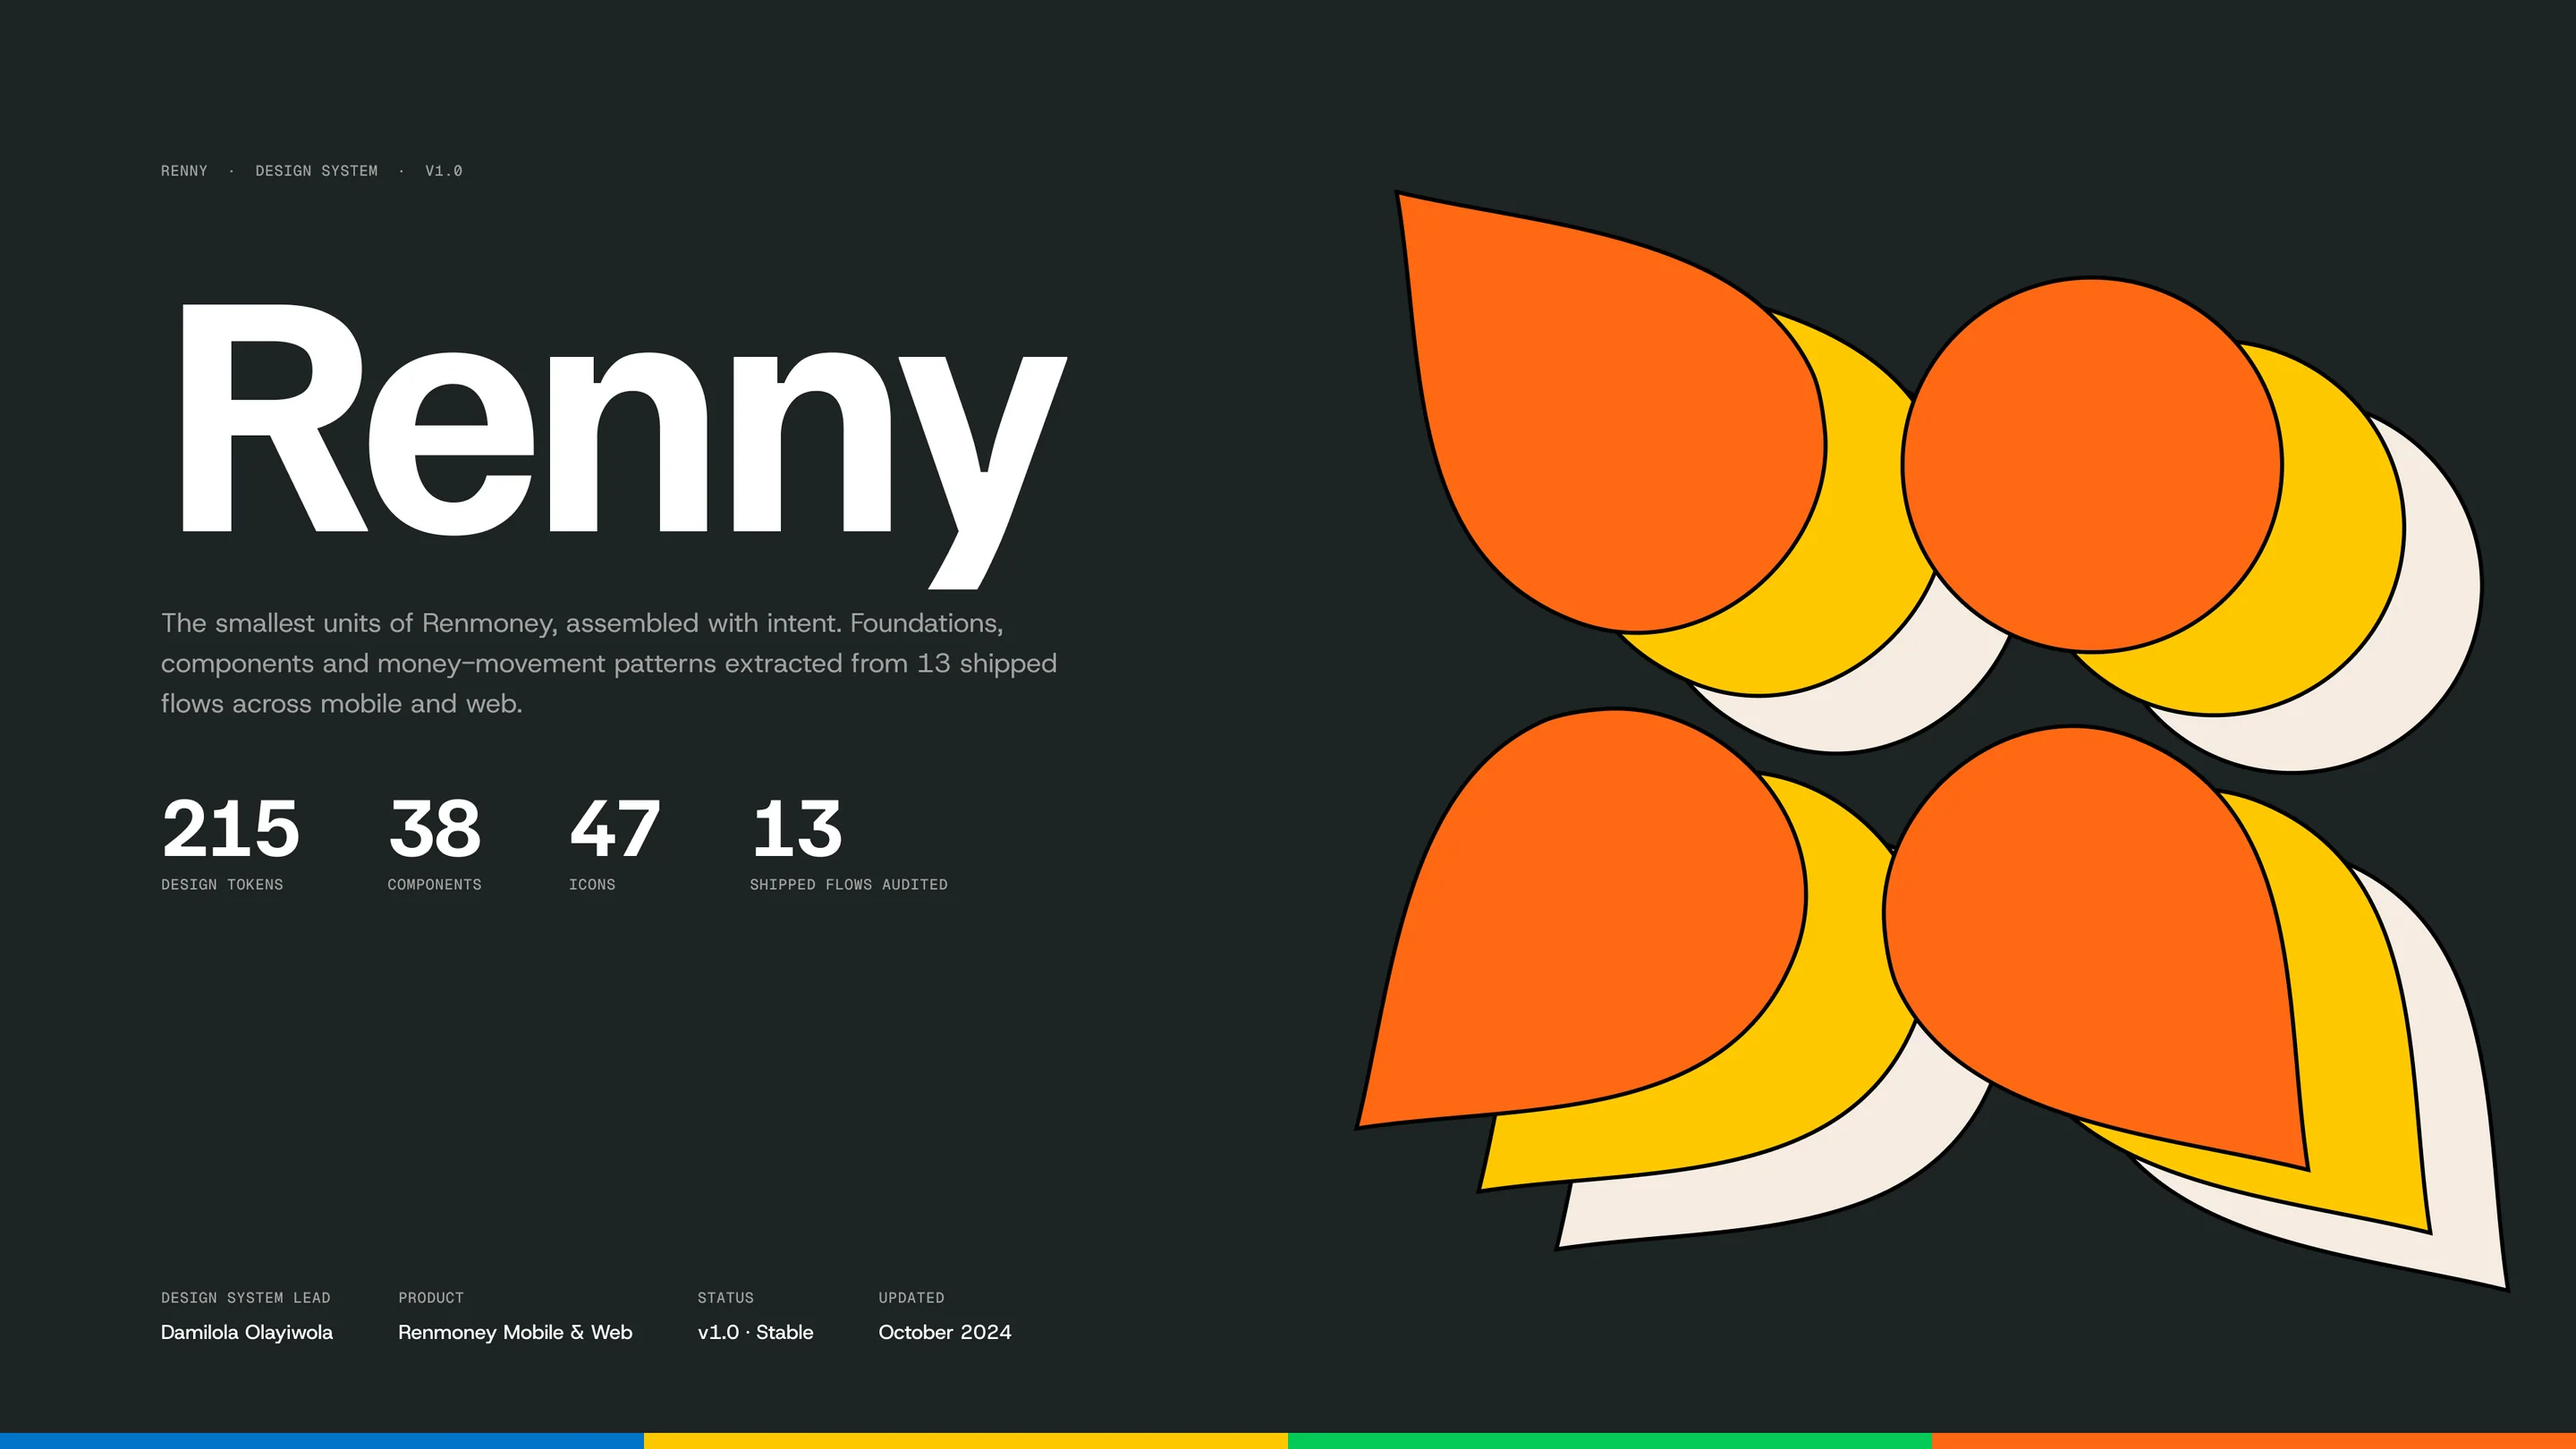
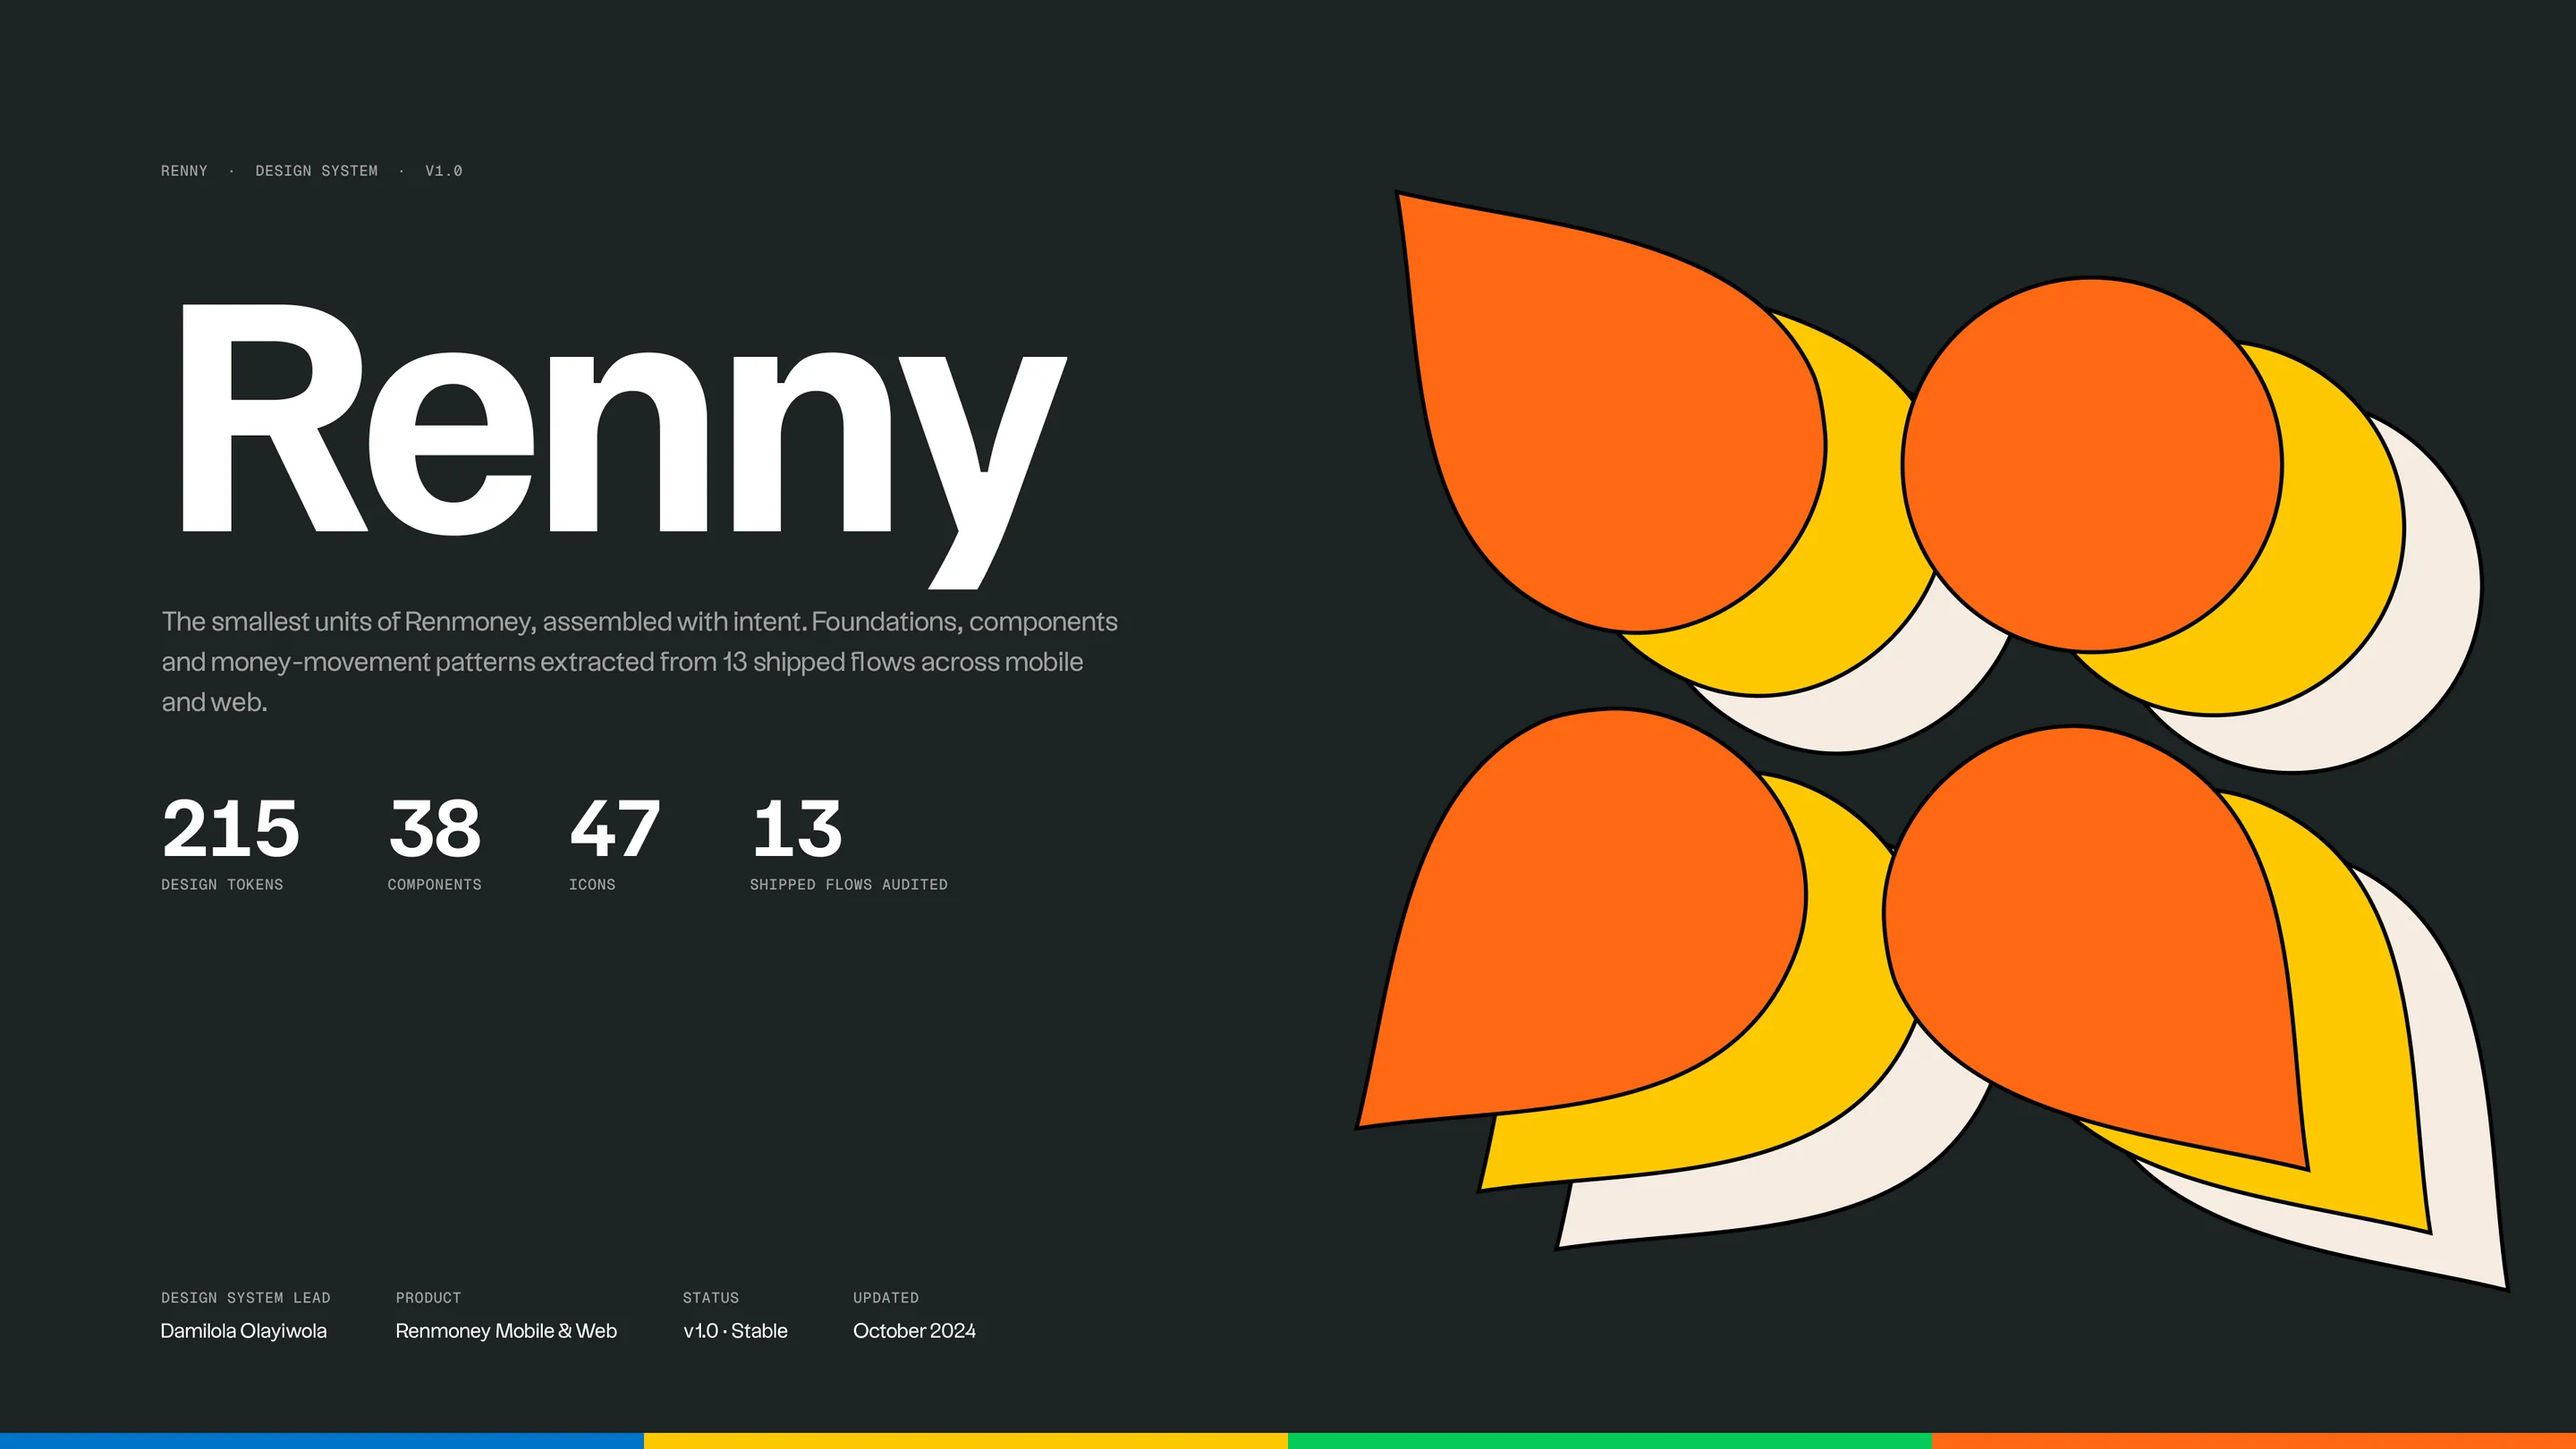
Renny: re-export case study images in the brand fonts
Claude-Session: https://claude.ai/code/session_01R4bDjhHYrUPC2NqNuzqTts

Changed region(s): [[0.0625, 0.4012, 0.4375, 0.4938], [0.1562, 0.8951, 0.4062, 0.9259], [0.0625, 0.8951, 0.125, 0.9259]]

diff --git a/index.html b/index.html
@@ -595,7 +595,7 @@ const CASES=[{"slug":"renmoney-loan-optimization","co":"Renmoney Microfinance ba
   const S = (label, head, body) => `<div class="rc"><p class="rc-l">${label}</p>${head ? `<h2 class="rc-h">${head}</h2>` : ""}${body}</div>`;
   const P = t => `<p>${t}</p>`;
   const UL = items => `<ul>${items.map(i => `<li>${i}</li>`).join("")}</ul>`;
-  const DIM = {"cover":[2880,1620],"use-hubs":[2976,2448],"buttons":[2976,1392],"radius":[2976,968],"product-colour":[2976,1110],"amount":[2976,1112],"pin":[2976,1130],"built":[2976,718],"modes":[2976,1318],"use-consequence":[2976,1856],"health":[2976,860],"before-after":[2976,1778],"use-money":[2976,2496],"audit":[2976,1312],"a11y":[2976,878],"principles":[2976,1336],"elevation":[2976,1222],"typefaces":[2976,1204]};
+  const DIM = {"cover":[2880,1620],"use-hubs":[2976,2480],"buttons":[2976,1424],"radius":[2976,952],"product-colour":[2976,1142],"amount":[2976,1048],"pin":[2976,1162],"built":[2976,750],"modes":[2976,1350],"use-consequence":[2976,1888],"health":[2976,844],"before-after":[2976,1762],"use-money":[2976,2528],"audit":[2976,1344],"a11y":[2976,910],"principles":[2976,1368],"elevation":[2976,1206],"typefaces":[2976,1236]};
   let ex = 0;
   const IMG = (k, cap, alt, use) => ({t:"img", src:`media/renny/${k}.webp`, w:DIM[k][0], h:DIM[k][1], alt: alt || cap, cap, n: use ? `Usage ${String(use).padStart(2,"0")}` : `Excerpt ${String(++ex).padStart(2,"0")}`});
   const stat = (n, l, c) => `<div class="rs"><b style="color:${c}">${n}</b><span>${l}</span></div>`;
@@ -635,7 +635,7 @@ const CASES=[{"slug":"renmoney-loan-optimization","co":"Renmoney Microfinance ba
     {t:"html", l:"Foundations", h: S("Foundations", "Colour, type, shape and elevation, rebuilt as tokens", P("The brand stayed recognisable; what changed is that every value now has a name, a scope and a reason."))},
     IMG("product-colour","Product colour system: each product owns a core and a subtle tint, applied to marks, progress fills, chart series and tags."),
     IMG("modes","One component, two modes. The same instances; only the frame’s colour mode differs, so Dark ships as a setting, not a redesign."),
-    IMG("typefaces","Typefaces referenced through variables: a display face for titles, a sans for everything else, amounts included."),
+    IMG("typefaces","Uxum Grotesque and PP Neue Montreal, the Renmoney brand faces, set through font variables so one change reaches every style."),
     IMG("amount","Anatomy of an amount: naira first, kobo de-emphasised, sign and colour always agree, masked balances keep their width."),
     IMG("radius","Radius: eight tokens replace 27 measured values. Larger components get larger radii so nested corners stay concentric."),
     IMG("elevation","Elevation: hard shadows mean “press me”, soft shadows mean “I’m floating”. Never both on one element."),
